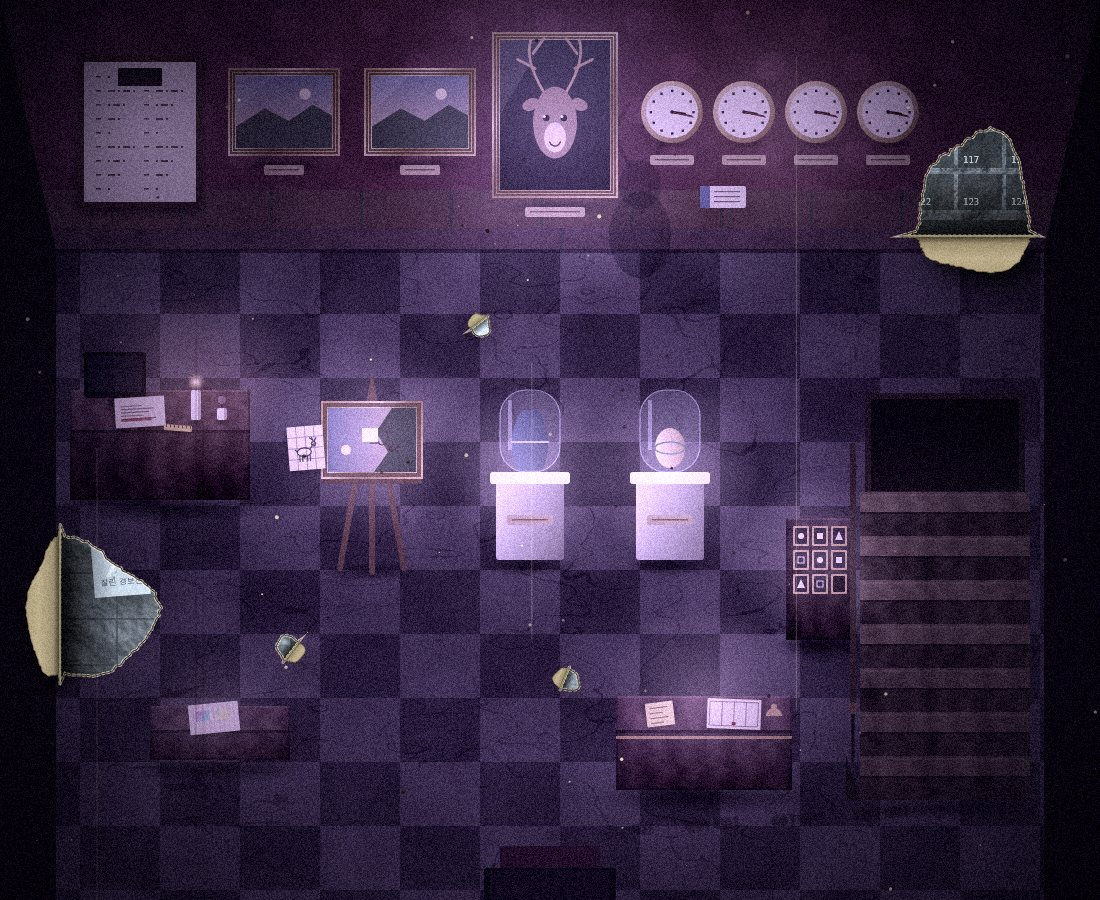
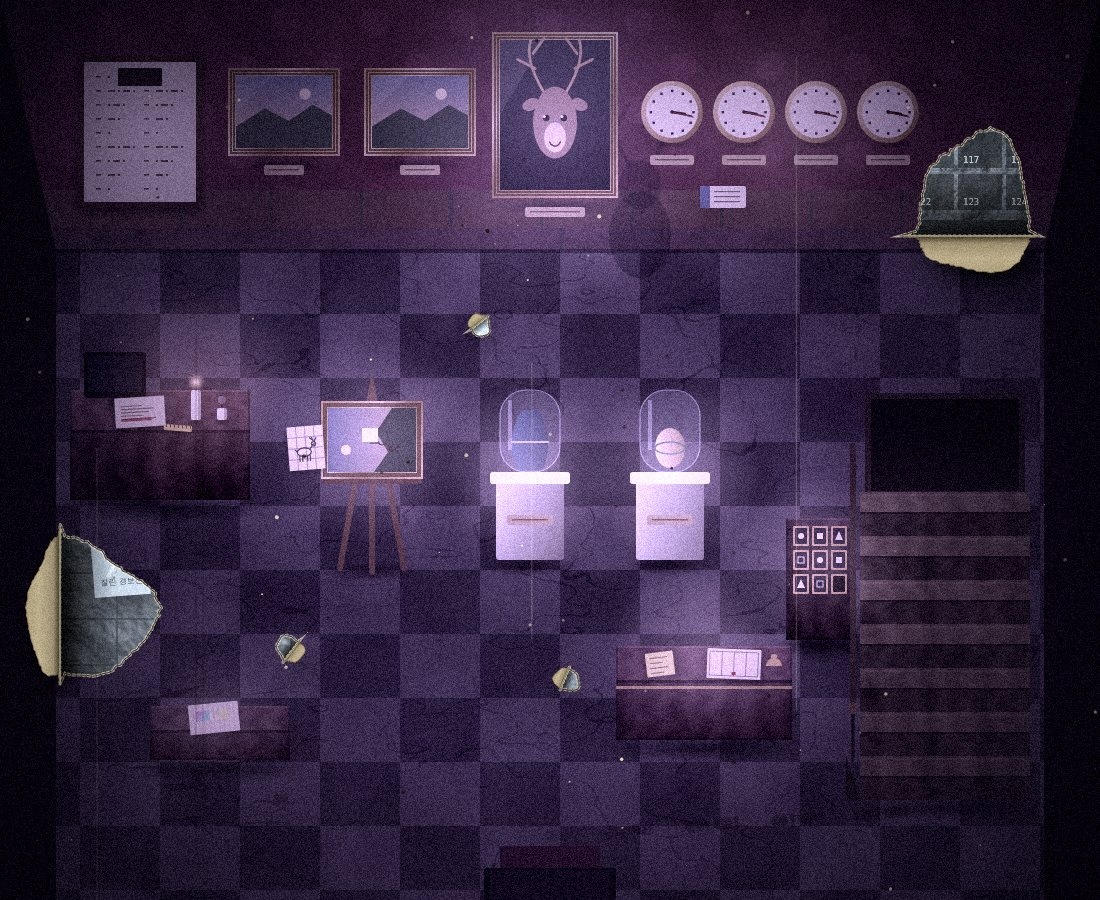
올리 3 층 방 · 작업 중 파일
Claude-Session: https://claude.ai/code/session_01GyJEdcFjE828PDvtvLXbrE

Changed region(s): [[0.5564, 0.6533, 0.7418, 0.9022]]

diff --git a/public/rooms/olly.js b/public/rooms/olly.js
@@ -12,7 +12,7 @@ export default {
   ],
   // 가구 자리 (못 지나가요) [층, x, y, w, h]
   walls: [
-    [1, 70, 390, 180, 110], [1, 330, 470, 90, 98], [1, 494, 472, 72, 88], [1, 634, 472, 72, 88], [1, 786, 520, 68, 120], [1, 616, 696, 176, 94], [1, 150, 706, 140, 54],
+    [1, 70, 390, 180, 110], [1, 330, 470, 90, 98], [1, 494, 472, 72, 88], [1, 634, 472, 72, 88], [1, 786, 520, 68, 120], [1, 616, 646, 176, 94], [1, 150, 706, 140, 54],
     [2, 320, 396, 420, 124], [2, 488, 690, 64, 70], [2, 594, 706, 56, 58], [2, 280, 640, 120, 140], [2, 744, 790, 116, 80],
     [3, 296, 262, 70, 50], [3, 462, 262, 176, 72], [3, 756, 262, 118, 48], [3, 962, 436, 110, 94], [3, 40, 600, 100, 92], [3, 40, 796, 104, 76],
   ],
@@ -21,7 +21,7 @@ export default {
     p01: [1, 372, 572],  // 이젤 위 두 그림 (누운 그림 + 모눈 밑그림)
     p02: [1, 780, 300],  // 로비 벽시계 네 개 (뒷벽)
     p03: [1, 196, 504],  // 경비 책상 위 초 두 개
-    p04: [1, 704, 796],  // 안내 데스크 쪽지 (입구 오른쪽)
+    p04: [1, 704, 746],  // 안내 데스크 쪽지 (입구 오른쪽)
     p05: [1, 820, 646],  // 계단 앞 그림 아홉 칸 (세워 둔 판)
     // 2 층 복원실
     p06: [2, 622, 768],  // 의자 위 팔레트 (이젤 옆)
